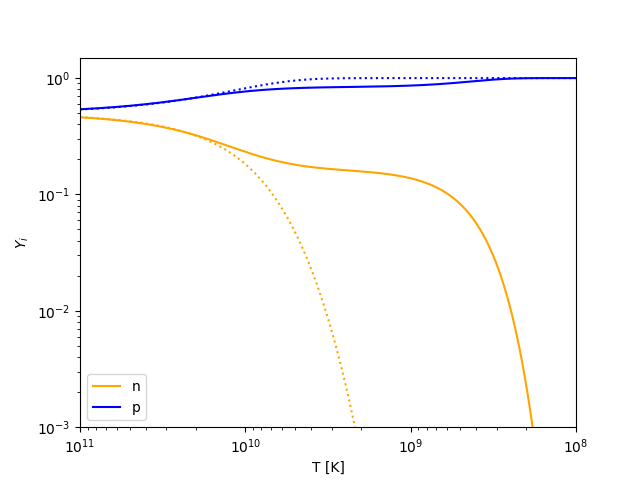
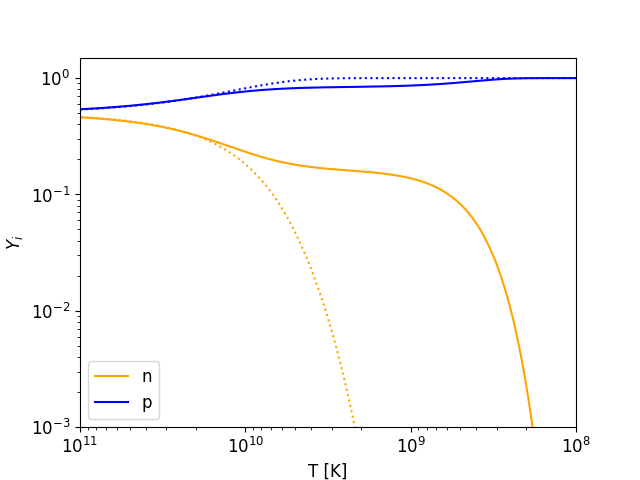
updated figures

diff --git a/project 2/question_h.py b/project 2/question_h.py
@@ -1,6 +1,8 @@
 import matplotlib.pyplot as plt
 from BBN import BBN
 
+plt.rcParams.update({"font.size": 12}) # For all the plots to have text size 12
+
 bbn = BBN(NR_interacting_species = 3)
 bbn.solve_BBN(T_init=100e9, T_end=0.1e9) # solve the system until end temperature 0.1e9 K
 

diff --git a/project 2/question_f.py b/project 2/question_f.py
@@ -1,6 +1,7 @@
 import matplotlib.pyplot as plt
 from BBN import BBN
 
+plt.rcParams.update({"font.size": 12}) # For all the plots to have text size 12
 
 # Initiate the system including 2 species (neutrons and protons):
 bbn = BBN(NR_interacting_species = 2)
